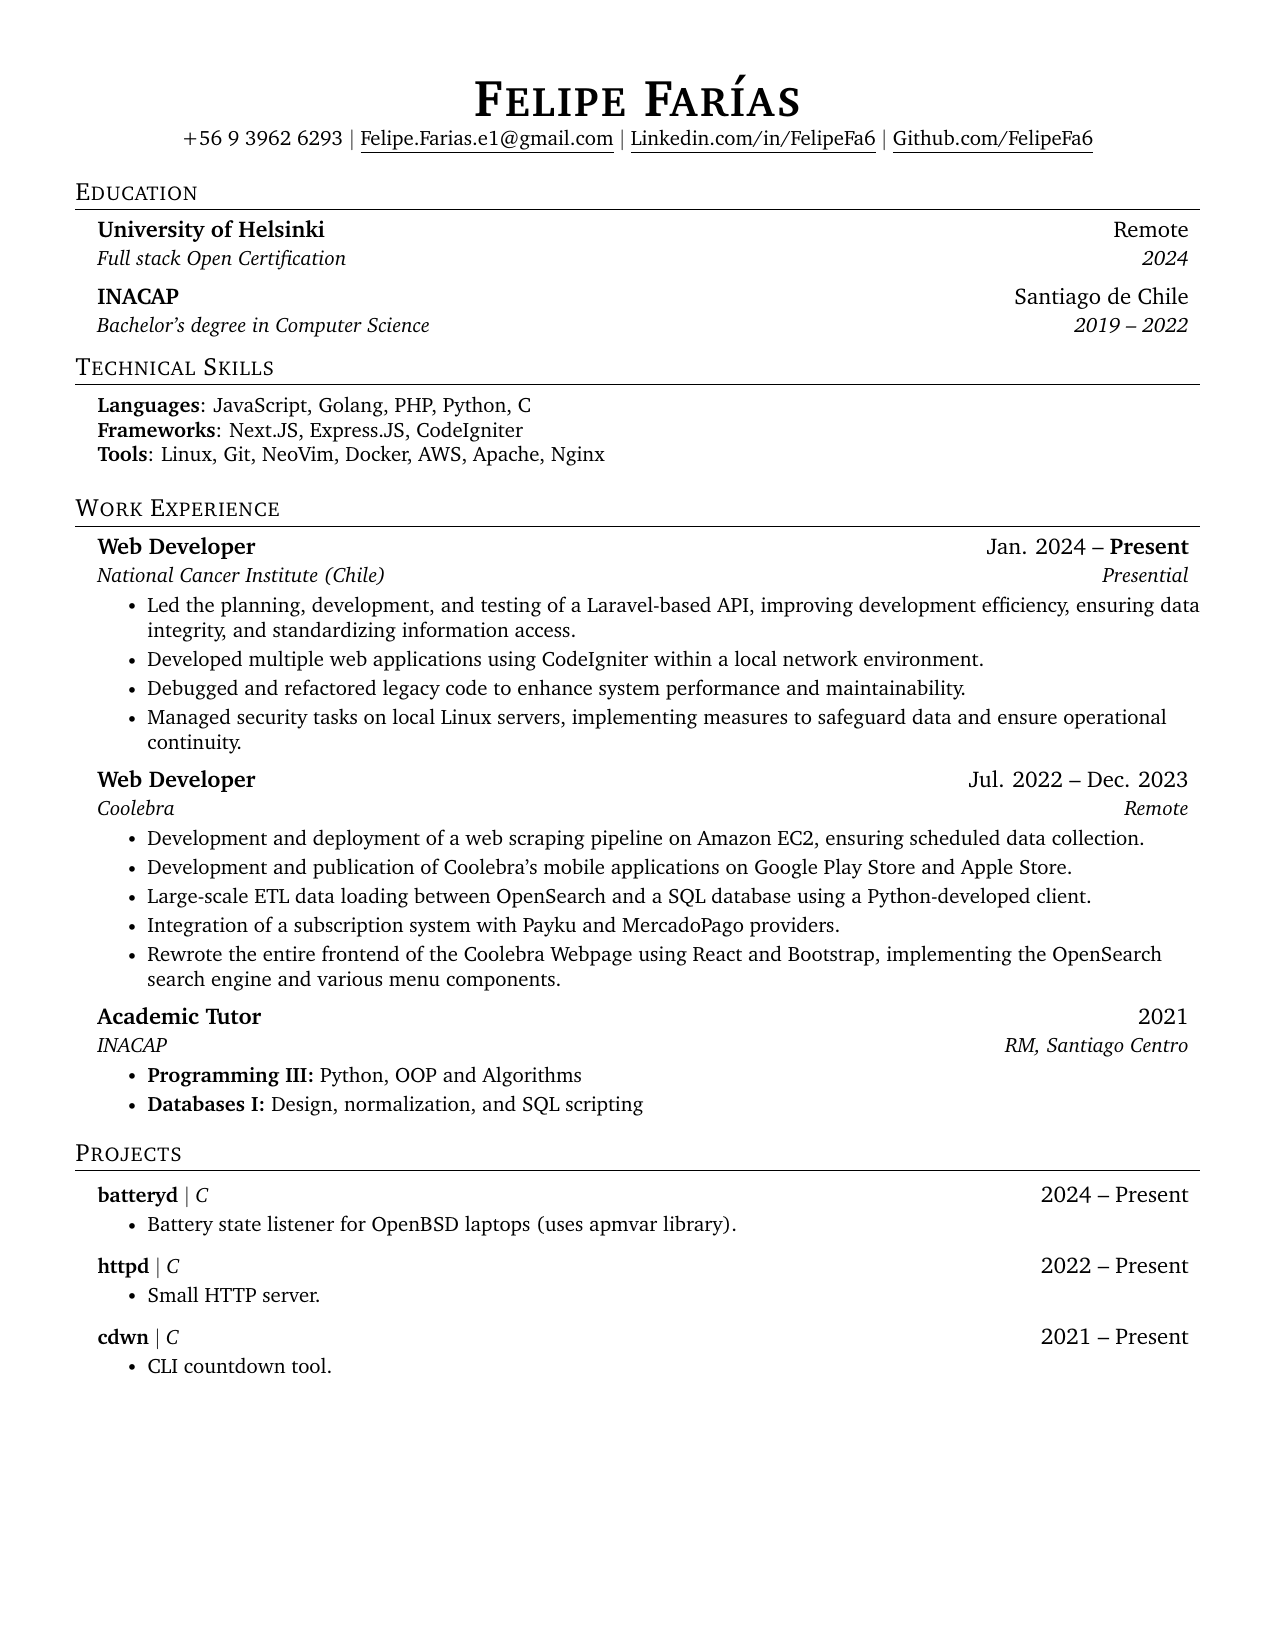
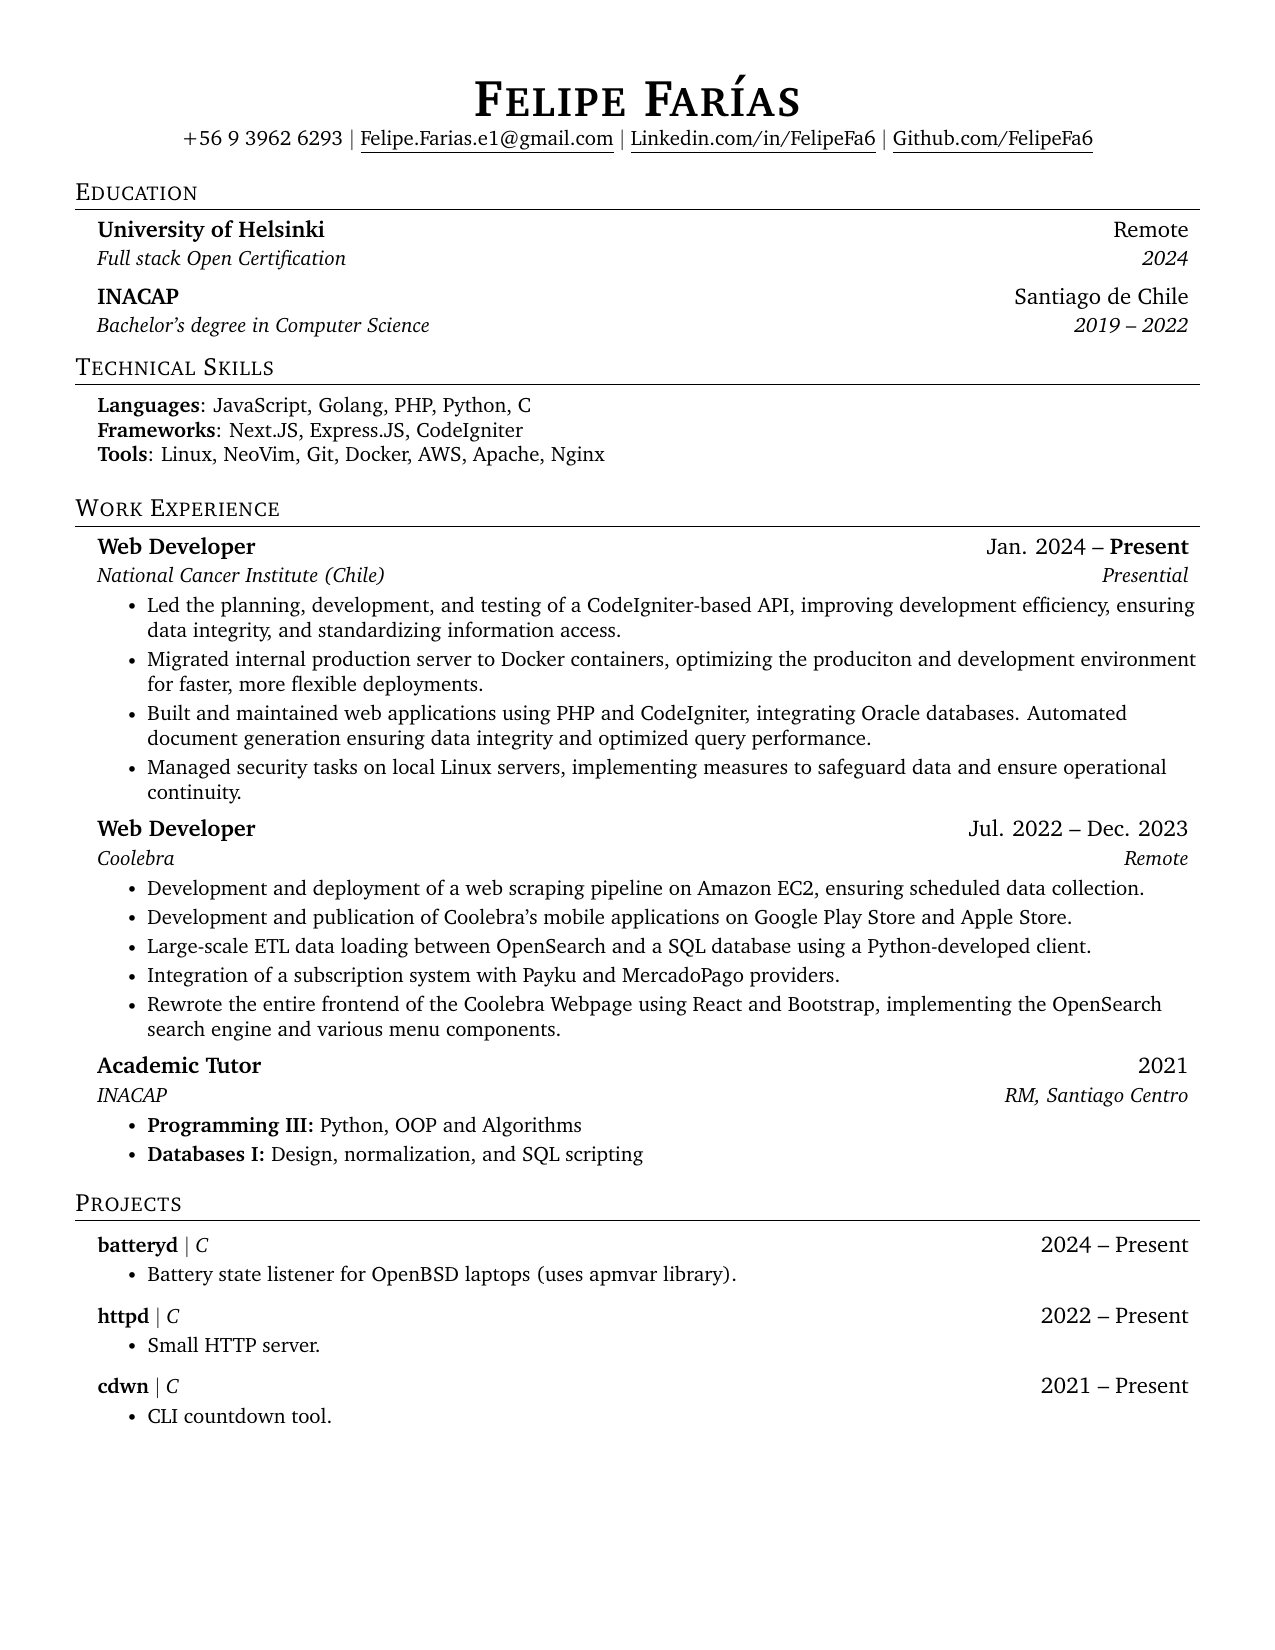
Updated CV

diff --git a/main.tex b/main.tex
@@ -117,7 +117,7 @@
 	\small{\item{
 		\textbf{Languages}{: JavaScript, Golang, PHP, Python, C } \\
 		\textbf{Frameworks}{: Next.JS, Express.JS, CodeIgniter } \\
-		\textbf{Tools}{: Linux, Git, NeoVim, Docker, AWS, Apache, Nginx} \\
+		\textbf{Tools}{: Linux, NeoVim, Git, Docker, AWS, Apache, Nginx} \\
 	}}
 \end{itemize}
 
@@ -133,20 +133,23 @@
 
 \resumeItem{
     Led the planning, development, and testing of
-    a Laravel-based API, improving development
+    a CodeIgniter-based API, improving development
     efficiency, ensuring data integrity, and
     standardizing information access.
 }
 
 \resumeItem{
-    Developed multiple web applications using
-    CodeIgniter within a local network
-    environment.
+    Migrated internal production server to Docker
+    containers, optimizing the produciton and
+    development environment for faster, more
+    flexible deployments.
 }
 
 \resumeItem{
-    Debugged and refactored legacy code to enhance
-    system performance and maintainability.
+    Built and maintained web applications using PHP
+    and CodeIgniter, integrating Oracle databases.
+    Automated document generation ensuring data
+    integrity and optimized query performance.
 }
 
 \resumeItem{
